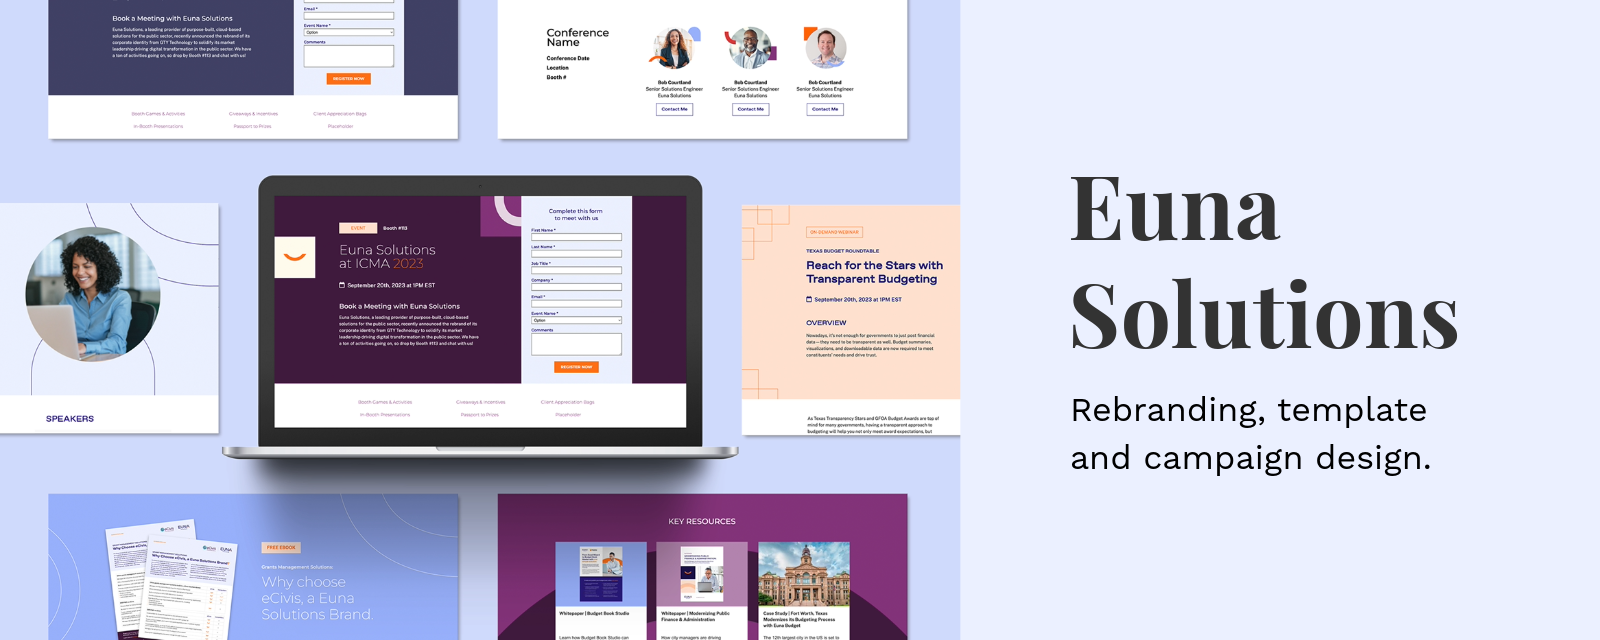
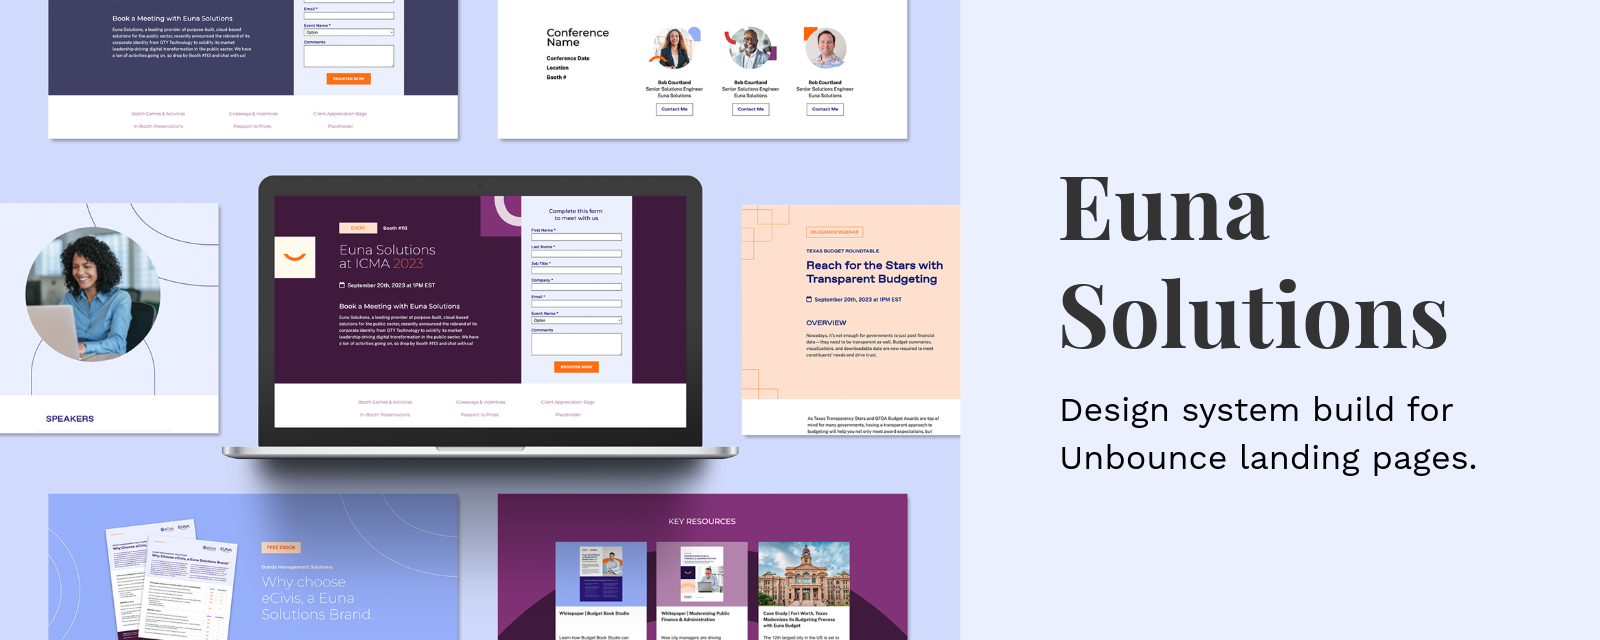
feb 19 updates
-reordered homepage & updated nav globally to reflect
-updated euna page

diff --git a/euna.html b/euna.html
@@ -52,9 +52,9 @@
             <a class="dropdown-toggle pt-1 nav-link text-right" href="#" role="button" style="font-size: 14px" id="dropdownMenuLink" data-toggle="dropdown" aria-haspopup="true" aria-expanded="false">Work</a>
 
             <div class="dropdown-menu nav-item" aria-labelledby="dropdownMenuLink">
+              <a class="dropdown-item nav-item" href="euna.html">Euna Solutions</a>
               <a class="dropdown-item nav-item" href="bonfire.html">Bonfire Interactive</a>
               <a class="dropdown-item nav-item" href="questica.html">Questica</a>
-              <a class="dropdown-item nav-item" href="euna.html">Euna Solutions</a>
               <a class="dropdown-item nav-item" href="opencounter.html">OpenCounter</a>
               <a class="dropdown-item nav-item" href="masterpiece-vr.html">MasterpieceVR</a>
               <a class="dropdown-item nav-item" href="csp.html">Canadian Science Publishing</a>
@@ -77,7 +77,7 @@
     </div>
   </nav>
 
-  <section class="mx-auto pt-3" style="background-color: #EBF0FF">
+  <section class="mx-auto pt-3" style="background-color: #EBF0FF;">
     <div class="col-sm-8 col-md-10 col-lg-8 mx-auto pt-5">
       <div class="row text-center">
         <div class="text-center mx-auto">
@@ -91,19 +91,18 @@
     <div class="container center pb-5">
       <div class="pb-2">
         <h2 class="pb-0 mb-2" style="font-size: 36px;">Euna Solutions (formerly GTY)</h2>
-        <p style="font-size: 14px; font-weight: 400;">Rebranding, Template and Campaign Design</p>
+        <p style="font-size: 14px; font-weight: 400;">Design System Build | Landing Pages</p>
       </div>
       <div class="row">
         <div class="col-sm-12 col-md-8 col-xl-8">
           <p class="gray" style="font-weight: 600;">OVERVIEW</p>
-          <p class="pb-3">Previously 9 different companies, Euna Solutions delivers best-in-class solutions that keep the public sector thriving. Launched in May 2023, different public sector software companies consolidated to offer a platform of products. The big idea:
-            forward-thinking solutions that have your back.</p>
+          <p class="pb-3">Euna Solutions consolidated and rebranded in May 2023 which posed numerous design questions and challenges. I was tasked with creating a seamless and efficient Design System for Euna's Unbounce landing pages which could be used easily by the Digital and Design teams.</p>
         </div>
         <div class="col-sm-12 col-md-4 col-xl-4">
           <p class="gray" style="font-weight: 600;">ROLE</p>
           <span style="font-size: 13px;">
               <p class="font-weight-bold mb-2">Graphic Designer & Developer</p>
-              <p>User Research, Interaction, Visual Design, Front-end Web Design, Prototyping & Testing</p>
+              <p>Design System, User Interface, User Experience, Interaction, Visual Design, Front-end Web Design, Prototyping & Testing</p>
             </span>
         </div>
       </div>
@@ -116,92 +115,134 @@
     <div class="container center">
       <div class="pb-2">
         <h4 class="pb-3 font-weight-bold">Background</h4>
-        <h4 class="pb-3">I supported a massive rebrand at Euna.</h4>
-        <p>I joined Euna Solutions in 2022 prior to it's rebrand in 2023, originally with Questica (now known as Euna Budget) and worked primarily with the Budgeting & Grants business units. When the company consolidated from 9 individual business units to one, my design support grew to span multiple product lines; Procurement, Permitting, K-12, Payments, Budgeting and Grants.</p>
-        <p>I've learned so much about SaaS and marketing during my time at Euna, I've listed some of my highlights below:</p>
-        <ul>
-          <li class="pb-3"><span class="font-weight-bold">Establish design consistency.</span> Bringing visual cohesiveness to the design projects allowed the brand to communicate more clearly.</li>
-          <li class="pb-3"><span class="font-weight-bold">Learn to advocate for yourself.</span> Self-advocacy also helped me create independence and empowered me to find solutions to problems that others might not have been aware of. This meant learning to understand
-            my needs, knowing what kind of support I needed, and communicating those needs to others.</li>
-          <li class="pb-3"><span class="font-weight-bold">Know your tools inside & out.</span> It pays to learn as much as possible about the tech stack you use on a daily basis and it's capabilities. Sharing this knowledge with others helps streamlining their processes as much as your own.</li>
-          <li class="pb-3"><span class="font-weight-bold">Learn from the team.</span> Marketing is a tough environment to be in if you don't have a good grasp on the different functions. Consistent communication and learning between functions helps everyone to work more fluidly.</li>
 
+        <p>Previously 9 different companies, Euna Solutions delivers best-in-class solutions that keep the public sector thriving. Launched in May 2023, different public sector software companies consolidated to offer a platform of products. Our design team was made up of 3 people, on a Marketing team of about 40.</p>
+        <h4 class="pb-3">I designed and implemented design systems and structures.</h4>
+        <p>In addition to day-to-day graphics, I focused on designing design systems at Euna. I learned about SaaS and Marketing, during this time I was able to accomplish these key achievements:</p>
+        <ul>
+          <li class="pb-3"><span class="font-weight-bold">Designed and implemented a landing page Design System.</span> This was key in elevating Euna's new brand and bridging the Digital and Design teams.</li>
+          <li class="pb-3"><span class="font-weight-bold">Implemented a file and folder system for design.</span> This system established cohesiveness and consistency among our internal design team and could also be used by external designers.</li>
+          <li class="pb-3"><span class="font-weight-bold">Built, distributed and maintained brand libraries.</span> I built Adobe Creative Cloud libraries to be accessible by anyone with an Adobe account. This was critical in creating brand consistency with the Marketing & Comms teams.</li>
+          <li class="pb-3"><span class="font-weight-bold">Mentored and art-directed Junior Designers.</span> Providing support and art direction for Junior Designers was a new experience and strengthened my team-building skills.</li>
         </ul>
       </div>
     </div>
   </section>
 
 
-  <section class="pt-5 pb-5">
-    <div class="container center">
-        <div class="row pt-3">
-          <div class="col-sm-6">
-            <img class="img-fluid" src="img/euna/euna-2.png">
-            <p class="pt-2 text-center caption">Euna Brand Guidelines (Sam Johnston)</p>
-          </div>
-          <div class="col-sm-6">
-            <img class="img-fluid" src="img/euna/euna-cards.png">
-            <p class="pt-2 text-center caption">Events Business Cards (HH)</p>
-          </div>
-        </div>
-      </div>
-  </section>
-
-  <section class="pb-4 pt-4" style="background-color: #e3e6f4;">
+  <section class="pt-4 pb-5">
     <div class="container center">
       <div>
-        <div class="text-center">
-          <img class="img-fluid" src="img/euna/euna-4.png">
-          <p class="pt-0 mt-0 pb-3 text-center caption">Euna Budget Whitepaper (HH)</p>
-        </div>
+        <h4 class="pt-5 pb-3 mb-0 font-weight-bold">Understanding the problem</h4>
+        <p>Rebranding Euna's landing page templates presented the opportunity to improve the current system. Up until this point, Digital was putting pages together for Design to review. That process proved to be inefficent, frustrating and disjointed which also led to brand inconsistency. This was a great a use case to implement a Design System to bridge Digital and Design, allowing the teams to work cohesively, fluidly and efficiently together.</p>
+        <p>My research encompassed:</p>
+        <ul>
+          <li>Identifying what makes a good Design System work</li>
+          <li>Knowing what can lead a Design Systems to failure</li>
+          <li>Understanding what current Design Systems are available</li>
+          <li>Learning more about Unbounce's capability and functionality</li>
+        </ul>
       </div>
     </div>
   </section>
 
-  <div class="container center pb-3">
-        <p class="pt-5">Shortly following the rebrand launch, I was tasked with creating newly branded landing page templates for Euna, to support the marketing team's efforts. Each LP category follows a particular colour path that correlates with the core Euna brand. These templates increased the digital team's turnaround time for multiple campaign landing pages (below).</p>
-    <div class="row pt-3">
-      <div class="col-sm-6">
-        <img class="img-fluid" src="img/euna/euna-1.png">
-        <p class="pt-2 text-center caption">New Euna LP Template Examples</p>
-      </div>
-      <div class="col-sm-6">
-        <img class="img-fluid" src="img/euna/euna-2.jpg">
-        <p class="pt-2 text-center caption">Events Templates Colour Pathing</p>
-      </div>
-    </div>
-    <p class="pt-4">To accompany the templates, I creating Landing Page Design Rules and an Asset Library for preformatted ready-to-use landing page graphics by category for the digital team (below).</p>
-  </div>
 
-  <section class="pb-4 pt-4" style="background-color: #e3e6f4;">
-    <div class="container center">
-      <div>
-        <div class="text-center">
-          <img class="img-fluid" src="img/euna/euna-5.png">
+    <section class="pt-4 pb-5 bg-lt-blue">
+      <div class="container center">
+        <div>
+          <h4 class="pt-5 pb-3 mb-0 font-weight-bold">Defining system requirements</h4>
+          <p>I worked with Design to Identifying all the potential system requirements and presented these to the Digital team.</p>
+          <p>Together, we defined these key system requirements:</p>
+          <ul>
+            <li>Be easy for Design and Digital to maintain</li>
+            <li>Be accessible, efficient and easy to use for both teams</li>
+            <li>Include a library of pre-formatted graphics for Digital to use</li>
+            <li>Be accompanied by documentation in the form of Design System Rules</li>
+            <li>Ensure that each landing page category follows a colour pathing system</li>
+            <li>Follow a simple structure for easily building future page templates</li>
+          </ul>
         </div>
       </div>
-    </div>
-  </section>
+    </section>
+
+
+
+          <section class="pt-4">
+            <div class="container center pb-5">
+              <h4 class="pt-5 pb-3 mb-0 font-weight-bold">Process: design mockups and testing</h4>
+
+              <div class="row">
+                  <div class="col-sm-8">
+                  <p>These are the next steps I took to at this stage:</p>
+                    <ol>
+                      <li class="pb-2">Sketch layouts, develop low-fi mockups in Illustrator</li>
+                      <li class="pb-2">Design Sync: low-fi mockups</li>
+                      <li class="pb-2">Present to Digital: hi-fi mockups</li>
+                      <li class="pb-2">Design: Build and test one mockup in Unbounce</li>
+                      <li class="pb-2">Hand to Digital: Unbounce mockup for testing and review</li>
+                      <li class="pb-2">Integrate feedback from Digital</li>
+                      <li class="pb-2">Iterate on steps 4-6 until all landing pages are complete</li>
+                    </ol>
+                  </div>
+                  <div class="col-sm-4">
+                      <img class="img-fluid" src="img/euna/euna-lo-fi.png">
+                    </div>
+                </div>
+              </div>
+            </section>
+
+
+      <section class="pb-4 pt-4" style="background-color: #e3e6f4;">
+        <div class="container center">
+          <div class="pb-5">
+            <h4 class="pt-5 pb-3 mb-0 font-weight-bold">Finalizing and implementation</h4>
+            <h5>Living SharePoint asset library</h5>
+            <p>A key functional component of the Design System was a living SharePoint asset library. The purpose of the library made it easy for Digital to find and use landing page assets like photos, icons and graphics. Design was responsible for maintaining this library.</p>
+            <h5>System rules and style guides</h5>
+            <p>Another component of the Design System was a Visual Guide outlining responsibilties, global and category-specific rules, colour pathing examples, locations to corresponding assets within the SharePoint asset library.</p>
+            <img class="img-fluid" src="img/euna/euna-5.png">
+            <p class="pt-0 mt-0 pb-3 text-center caption">A snapshot of the Design System Rules.</p>
+          </div>
+        </div>
+        </section>
 
 
   <section class="pt-3 pb-3">
     <div class="container center">
       <div class="pb-5">
         <h4 class="pt-5 pb-3 mb-0 font-weight-bold">Results and takeaways</h4>
-        <p>Some key takeaways from Euna's rebrand are: </p>
+        <p>Post-implementation, Design and Digital continued to sync to identify and solve any pain points. We continued to work together to improve the new system and got a lot of great feedback from the marketing team on the new Design System and landing pages.</p>
+        <p>Some key takeaways from the designing the Landing Page Design System:</p>
         <ul>
-          <li class="pb-3"><span class="font-weight-bold">Plan your work, work your plan. </span> In order to meet the deadline date for the rebrand launch, committing to a strategy and being vigilant with communication served us well.</li>
-          <li class="pb-3"><span class="font-weight-bold">Embrace change.</span> When you're working with so many projects in such a tight timeline, it's best to go with the flow and embrace the many changes that come with the territory.</li>
-          <li class="pb-3"><span class="font-weight-bold">Immerse yourelf in the process.</span> Being part of the process of building and shaping the visual identity was a huge benefit when it came time to apply the new brand.</li>
+          <li class="pb-3"><span class="font-weight-bold">End users can be internal, not just potential clients.</span> In designing this system, we were prioritizing the needs and pain points of the Design, Digital and Marketing teams as well as users visiting the landing pages. It's important to recognize the same UX principles should be applied internally and externally.</li>
+          <li class="pb-3"><span class="font-weight-bold">Introduce ongoing communication.</span> Before the Landing Page Design System was in place, Design and Digital had almost no ongoing communication other than campaign kickoffs. Introducing a bi-weekly touchpoint strengthened team efforts.</li>
+          <li class="pb-3"><span class="font-weight-bold">Testing doesn't end after development.</span> Design is a constant iteration of improving the experience for the end user. Always find ways to collect and listen to your user's feedback.</li>
         </ul>
       </div>
     </div>
   </section>
 
-  <div class="bb mb-5 pt-0"></div>
+
+  <section class="pb-4 pt-4" style="background-color: #e3e6f4;">
+    <div class="container center">
+      <h4 class="pt-5 mb-0 font-weight-bold">Euna Solutions: Other Work</h4>
+      <div>
+        <div class="text-center">
+          <img class="img-fluid" src="img/euna/euna-4.png">
+          <p class="pt-0 mt-0 pb-3 text-center caption">Euna Budget Whitepaper</p>
+        </div>
+        <div class="text-center">
+          <img class="img-fluid" src="img/euna/euna-cards.png">
+          <p class="pt-0 mt-0 pb-3 pt-3 text-center caption">Euna Business Cards</p>
+        </div>
+      </div>
+    </div>
+  </section>
+
+  <!-- <div class="bb mb-5 pt-0"></div>-->
 
 
-  <section class="pb-0">
+  <section class="pb-0 pt-5">
     <div class="container">
       <p class="font-weight-bold text-center">More Projects</p>
       <div class="row pt-4 pb-2">

diff --git a/index.html b/index.html
@@ -51,9 +51,9 @@
             <a class="dropdown-toggle pt-1 nav-link text-right" href="#" role="button" style="font-size: 14px" id="dropdownMenuLink" data-toggle="dropdown" aria-haspopup="true" aria-expanded="false">Work</a>
 
             <div class="dropdown-menu nav-item" aria-labelledby="dropdownMenuLink">
+              <a class="dropdown-item nav-item" href="euna.html">Euna Solutions</a>
               <a class="dropdown-item nav-item" href="bonfire.html">Bonfire Interactive</a>
               <a class="dropdown-item nav-item" href="questica.html">Questica</a>
-              <a class="dropdown-item nav-item" href="euna.html">Euna Solutions</a>
               <a class="dropdown-item nav-item" href="opencounter.html">OpenCounter</a>
               <a class="dropdown-item nav-item" href="masterpiece-vr.html">MasterpieceVR</a>
               <a class="dropdown-item nav-item" href="csp.html">Canadian Science Publishing</a>
@@ -133,19 +133,19 @@
   <div class="container">
   <div class="row pt-5">
     <div class="col-sm-6">
+      <a class="d-block mx-auto mb-4" href="euna.html">
+        <img class="img-fluid project" src="img/euna.png">
+      </a>
+    </div>
+    <div class="col-sm-6">
       <a class="d-block mx-auto mb-4" href="bonfire.html">
         <img class="img-fluid project" src="img/bonfire.png">
       </a>
     </div>
-    <div class="col-sm-6">
-      <a class="d-block mx-auto mb-4" href="questica.html">
-        <img class="img-fluid project" src="img/questica.png">
-      </a>
-    </div>
   <div class="w-100"></div>
   <div class="col-sm-6">
-    <a class="d-block mx-auto mb-4" href="euna.html">
-      <img class="img-fluid project" src="img/euna.png">
+    <a class="d-block mx-auto mb-4" href="questica.html">
+      <img class="img-fluid project" src="img/questica.png">
     </a>
   </div>
     <div class="col-sm-6">

diff --git a/cmg.html b/cmg.html
@@ -51,9 +51,9 @@
             <a class="dropdown-toggle pt-1 nav-link text-right" href="#" role="button" style="font-size: 14px" id="dropdownMenuLink" data-toggle="dropdown" aria-haspopup="true" aria-expanded="false">Work</a>
 
             <div class="dropdown-menu nav-item" aria-labelledby="dropdownMenuLink">
+              <a class="dropdown-item nav-item" href="euna.html">Euna Solutions</a>
               <a class="dropdown-item nav-item" href="bonfire.html">Bonfire Interactive</a>
               <a class="dropdown-item nav-item" href="questica.html">Questica</a>
-              <a class="dropdown-item nav-item" href="euna.html">Euna Solutions</a>
               <a class="dropdown-item nav-item" href="opencounter.html">OpenCounter</a>
               <a class="dropdown-item nav-item" href="masterpiece-vr.html">MasterpieceVR</a>
               <a class="dropdown-item nav-item" href="csp.html">Canadian Science Publishing</a>
@@ -104,7 +104,6 @@
                 <span style="font-size: 13px;">
                 <p class="font-weight-bold mb-2">Lead Graphic Designer</p>
                 <p>User Research, Visual Design, Front-end Web Design, Branding</p>
-                <p style="font-weight: 400;">12 week design timelines</p>
               </span>
               </div>
             </div>

diff --git a/about.html b/about.html
@@ -52,9 +52,9 @@
             <a class="dropdown-toggle pt-1 nav-link text-right" href="#" role="button" style="font-size: 14px" id="dropdownMenuLink" data-toggle="dropdown" aria-haspopup="true" aria-expanded="false">Work</a>
 
             <div class="dropdown-menu nav-item" aria-labelledby="dropdownMenuLink">
+              <a class="dropdown-item nav-item" href="euna.html">Euna Solutions</a>
               <a class="dropdown-item nav-item" href="bonfire.html">Bonfire Interactive</a>
               <a class="dropdown-item nav-item" href="questica.html">Questica</a>
-              <a class="dropdown-item nav-item" href="euna.html">Euna Solutions</a>
               <a class="dropdown-item nav-item" href="opencounter.html">OpenCounter</a>
               <a class="dropdown-item nav-item" href="masterpiece-vr.html">MasterpieceVR</a>
               <a class="dropdown-item nav-item" href="csp.html">Canadian Science Publishing</a>

diff --git a/bonfire.html b/bonfire.html
@@ -51,9 +51,9 @@
             <a class="dropdown-toggle pt-1 nav-link text-right" href="#" role="button" style="font-size: 14px" id="dropdownMenuLink" data-toggle="dropdown" aria-haspopup="true" aria-expanded="false">Work</a>
 
             <div class="dropdown-menu nav-item" aria-labelledby="dropdownMenuLink">
+              <a class="dropdown-item nav-item" href="euna.html">Euna Solutions</a>
               <a class="dropdown-item nav-item" href="bonfire.html">Bonfire Interactive</a>
               <a class="dropdown-item nav-item" href="questica.html">Questica</a>
-              <a class="dropdown-item nav-item" href="euna.html">Euna Solutions</a>
               <a class="dropdown-item nav-item" href="opencounter.html">OpenCounter</a>
               <a class="dropdown-item nav-item" href="masterpiece-vr.html">MasterpieceVR</a>
               <a class="dropdown-item nav-item" href="csp.html">Canadian Science Publishing</a>

diff --git a/canopy.html b/canopy.html
@@ -51,9 +51,9 @@
             <a class="dropdown-toggle pt-1 nav-link text-right" href="#" role="button" style="font-size: 14px" id="dropdownMenuLink" data-toggle="dropdown" aria-haspopup="true" aria-expanded="false">Work</a>
 
             <div class="dropdown-menu nav-item" aria-labelledby="dropdownMenuLink">
+              <a class="dropdown-item nav-item" href="euna.html">Euna Solutions</a>
               <a class="dropdown-item nav-item" href="bonfire.html">Bonfire Interactive</a>
               <a class="dropdown-item nav-item" href="questica.html">Questica</a>
-              <a class="dropdown-item nav-item" href="euna.html">Euna Solutions</a>
               <a class="dropdown-item nav-item" href="opencounter.html">OpenCounter</a>
               <a class="dropdown-item nav-item" href="masterpiece-vr.html">MasterpieceVR</a>
               <a class="dropdown-item nav-item" href="csp.html">Canadian Science Publishing</a>

diff --git a/csp.html b/csp.html
@@ -51,9 +51,9 @@
             <a class="dropdown-toggle pt-1 nav-link text-right" href="#" role="button" style="font-size: 14px" id="dropdownMenuLink" data-toggle="dropdown" aria-haspopup="true" aria-expanded="false">Work</a>
 
             <div class="dropdown-menu nav-item" aria-labelledby="dropdownMenuLink">
+              <a class="dropdown-item nav-item" href="euna.html">Euna Solutions</a>
               <a class="dropdown-item nav-item" href="bonfire.html">Bonfire Interactive</a>
               <a class="dropdown-item nav-item" href="questica.html">Questica</a>
-              <a class="dropdown-item nav-item" href="euna.html">Euna Solutions</a>
               <a class="dropdown-item nav-item" href="opencounter.html">OpenCounter</a>
               <a class="dropdown-item nav-item" href="masterpiece-vr.html">MasterpieceVR</a>
               <a class="dropdown-item nav-item" href="csp.html">Canadian Science Publishing</a>

diff --git a/masterpiece-vr.html b/masterpiece-vr.html
@@ -51,9 +51,9 @@
             <a class="dropdown-toggle pt-1 nav-link text-right" href="#" role="button" style="font-size: 14px" id="dropdownMenuLink" data-toggle="dropdown" aria-haspopup="true" aria-expanded="false">Work</a>
 
             <div class="dropdown-menu nav-item" aria-labelledby="dropdownMenuLink">
+              <a class="dropdown-item nav-item" href="euna.html">Euna Solutions</a>
               <a class="dropdown-item nav-item" href="bonfire.html">Bonfire Interactive</a>
               <a class="dropdown-item nav-item" href="questica.html">Questica</a>
-              <a class="dropdown-item nav-item" href="euna.html">Euna Solutions</a>
               <a class="dropdown-item nav-item" href="opencounter.html">OpenCounter</a>
               <a class="dropdown-item nav-item" href="masterpiece-vr.html">MasterpieceVR</a>
               <a class="dropdown-item nav-item" href="csp.html">Canadian Science Publishing</a>

diff --git a/opencounter.html b/opencounter.html
@@ -51,9 +51,9 @@
             <a class="dropdown-toggle pt-1 nav-link text-right" href="#" role="button" style="font-size: 14px" id="dropdownMenuLink" data-toggle="dropdown" aria-haspopup="true" aria-expanded="false">Work</a>
 
             <div class="dropdown-menu nav-item" aria-labelledby="dropdownMenuLink">
+              <a class="dropdown-item nav-item" href="euna.html">Euna Solutions</a>
               <a class="dropdown-item nav-item" href="bonfire.html">Bonfire Interactive</a>
               <a class="dropdown-item nav-item" href="questica.html">Questica</a>
-              <a class="dropdown-item nav-item" href="euna.html">Euna Solutions</a>
               <a class="dropdown-item nav-item" href="opencounter.html">OpenCounter</a>
               <a class="dropdown-item nav-item" href="masterpiece-vr.html">MasterpieceVR</a>
               <a class="dropdown-item nav-item" href="csp.html">Canadian Science Publishing</a>

diff --git a/questica.html b/questica.html
@@ -51,9 +51,9 @@
             <a class="dropdown-toggle pt-1 nav-link text-right" href="#" role="button" style="font-size: 14px" id="dropdownMenuLink" data-toggle="dropdown" aria-haspopup="true" aria-expanded="false">Work</a>
 
             <div class="dropdown-menu nav-item" aria-labelledby="dropdownMenuLink">
+              <a class="dropdown-item nav-item" href="euna.html">Euna Solutions</a>
               <a class="dropdown-item nav-item" href="bonfire.html">Bonfire Interactive</a>
               <a class="dropdown-item nav-item" href="questica.html">Questica</a>
-              <a class="dropdown-item nav-item" href="euna.html">Euna Solutions</a>
               <a class="dropdown-item nav-item" href="opencounter.html">OpenCounter</a>
               <a class="dropdown-item nav-item" href="masterpiece-vr.html">MasterpieceVR</a>
               <a class="dropdown-item nav-item" href="csp.html">Canadian Science Publishing</a>

diff --git a/various.html b/various.html
@@ -52,9 +52,9 @@
             <a class="dropdown-toggle pt-1 nav-link text-right" href="#" role="button" style="font-size: 14px" id="dropdownMenuLink" data-toggle="dropdown" aria-haspopup="true" aria-expanded="false">Work</a>
 
             <div class="dropdown-menu nav-item" aria-labelledby="dropdownMenuLink">
+              <a class="dropdown-item nav-item" href="euna.html">Euna Solutions</a>
               <a class="dropdown-item nav-item" href="bonfire.html">Bonfire Interactive</a>
               <a class="dropdown-item nav-item" href="questica.html">Questica</a>
-              <a class="dropdown-item nav-item" href="euna.html">Euna Solutions</a>
               <a class="dropdown-item nav-item" href="opencounter.html">OpenCounter</a>
               <a class="dropdown-item nav-item" href="masterpiece-vr.html">MasterpieceVR</a>
               <a class="dropdown-item nav-item" href="csp.html">Canadian Science Publishing</a>
